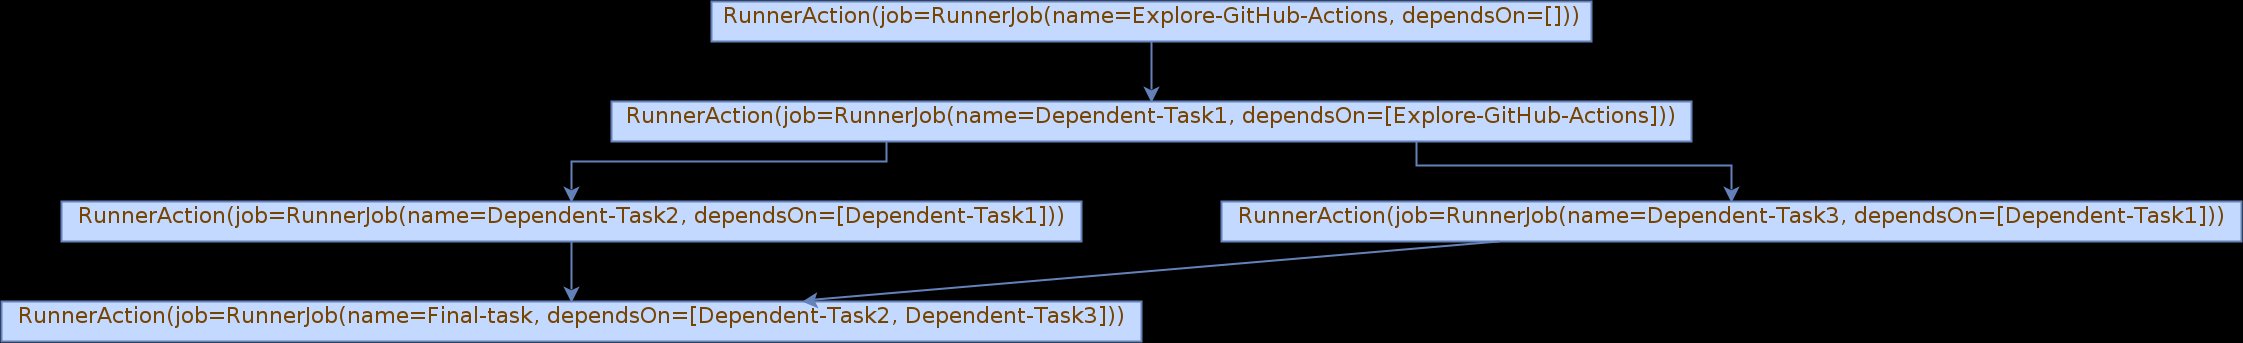
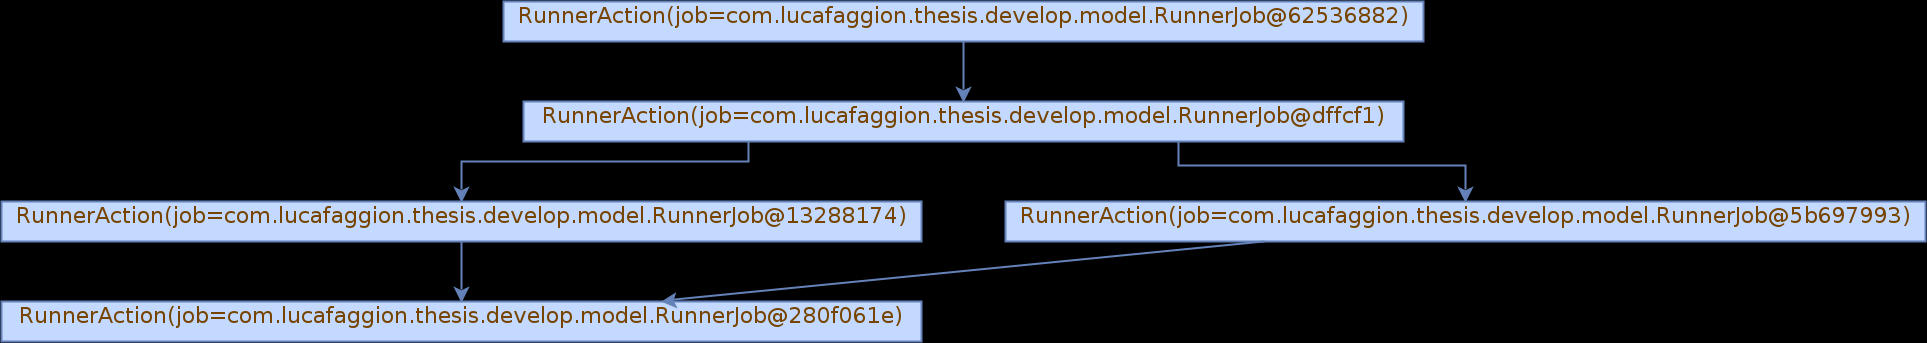
Adding integration test setup

diff --git a/develop/src/main/java/com/lucafaggion/thesis/develop/App.java b/develop/src/main/java/com/lucafaggion/thesis/develop/App.java
@@ -58,108 +58,108 @@ public class App {
     SpringApplication.run(App.class, args);
   }
 
-  //
-  // https://mkyong.com/spring-boot/how-to-display-all-beans-loaded-by-spring-boot/#:~:text=In%20Spring%20Boot%2C%20you%20can,loaded%20by%20the%20Spring%20container.
-  @Bean
-  public CommandLineRunner run(ApplicationContext appContext) throws IOException {
-    return args -> {
+  // //
+  // // https://mkyong.com/spring-boot/how-to-display-all-beans-loaded-by-spring-boot/#:~:text=In%20Spring%20Boot%2C%20you%20can,loaded%20by%20the%20Spring%20container.
+  // @Bean
+  // public CommandLineRunner run(ApplicationContext appContext) throws IOException {
+  //   return args -> {
 
-      FileWriter beanFile = new FileWriter("src/main/resources/beans.txt");
-      String[] beans = appContext.getBeanDefinitionNames();
-      for (String bean : beans) {
-        beanFile.write(bean + " of Type :: " + appContext.getBean(bean).getClass() +
-            "\n");
-      }
-      beanFile.close();
-    };
-  }
+  //     FileWriter beanFile = new FileWriter("src/main/resources/beans.txt");
+  //     String[] beans = appContext.getBeanDefinitionNames();
+  //     for (String bean : beans) {
+  //       beanFile.write(bean + " of Type :: " + appContext.getBean(bean).getClass() +
+  //           "\n");
+  //     }
+  //     beanFile.close();
+  //   };
+  // }
 
-  @Bean
-  public CommandLineRunner templateEngineTest(SpringTemplateEngine templateEngine) throws IOException {
-    return args -> {
-      HashMap<String, Object> user = new HashMap<String, Object>();
-      user.put("name", "lucafaggion");
+  // @Bean
+  // public CommandLineRunner templateEngineTest(SpringTemplateEngine templateEngine) throws IOException {
+  //   return args -> {
+  //     HashMap<String, Object> user = new HashMap<String, Object>();
+  //     user.put("name", "lucafaggion");
 
-      HashMap<String, Object> mapContext = new HashMap<String, Object>();
-      mapContext.put("name", "Testing Name");
-      mapContext.put("user", user);
+  //     HashMap<String, Object> mapContext = new HashMap<String, Object>();
+  //     mapContext.put("name", "Testing Name");
+  //     mapContext.put("user", user);
 
-      Context templateContext = new Context(new Locale("en"), mapContext);
+  //     Context templateContext = new Context(new Locale("en"), mapContext);
 
-      FileWriter templateWriter = new FileWriter("src/main/resources/configs/testconfig_compiled.yaml");
-      templateEngine.process("testconfig", templateContext, templateWriter);
+  //     FileWriter templateWriter = new FileWriter("src/main/resources/configs/testconfig_compiled.yaml");
+  //     templateEngine.process("testconfig", templateContext, templateWriter);
 
-      FileWriter templateWriterText = new FileWriter("src/main/resources/configs/testconfig_compiled_fromtext.yaml");
-      String template = """
-          name: GitHub Actions Demo
-          on: [push]
-          jobs:
-          Explore-GitHub-Actions:
-          steps:
-          - run: echo \"🎉 The job was automatically triggered by a ${{
-          github.event_name }} event.\"
-          - run: echo \"🐧 This job is now running on a ${{ runner.os }} server hosted
-          by GitHub!\"
-          - run: echo \"🔎 The name of your branch is ${{ github.ref }} and your
-          repository is ${{ github.repository }}.\"
-          - name: Check out repository code
-          uses: actions/checkout@v3
-          - run: echo \"💡 The [(${user.name})] repository has been cloned to the
-          runner.\"
-          - run: echo \"🖥 The workflow is now ready to test your code on the
-          runner.\"
-          - name: List files in the repository
-          run: |
-          ls ${{ github.workspace }}
-          - run: echo \"🍏 This job's status is ${{ job.status }}.\"
-          """;
-      templateEngine.process(template, templateContext, templateWriterText);
-    };
-  }
+  //     FileWriter templateWriterText = new FileWriter("src/main/resources/configs/testconfig_compiled_fromtext.yaml");
+  //     String template = """
+  //         name: GitHub Actions Demo
+  //         on: [push]
+  //         jobs:
+  //         Explore-GitHub-Actions:
+  //         steps:
+  //         - run: echo \"🎉 The job was automatically triggered by a ${{
+  //         github.event_name }} event.\"
+  //         - run: echo \"🐧 This job is now running on a ${{ runner.os }} server hosted
+  //         by GitHub!\"
+  //         - run: echo \"🔎 The name of your branch is ${{ github.ref }} and your
+  //         repository is ${{ github.repository }}.\"
+  //         - name: Check out repository code
+  //         uses: actions/checkout@v3
+  //         - run: echo \"💡 The [(${user.name})] repository has been cloned to the
+  //         runner.\"
+  //         - run: echo \"🖥 The workflow is now ready to test your code on the
+  //         runner.\"
+  //         - name: List files in the repository
+  //         run: |
+  //         ls ${{ github.workspace }}
+  //         - run: echo \"🍏 This job's status is ${{ job.status }}.\"
+  //         """;
+  //     templateEngine.process(template, templateContext, templateWriterText);
+  //   };
+  // }
 
-  @Bean
-  public CommandLineRunner templateEngineClasses(RunnerTaskConfigService runnerTaskConfigService,
-      RunnableGraphService runnableGraphService) throws IOException {
-    return args -> {
+  // @Bean
+  // public CommandLineRunner templateEngineClasses(RunnerTaskConfigService runnerTaskConfigService,
+  //     RunnableGraphService runnableGraphService) throws IOException {
+  //   return args -> {
 
-      HashMap<String, Object> user = new HashMap<String, Object>();
-      user.put("name", "lucafaggion");
+  //     HashMap<String, Object> user = new HashMap<String, Object>();
+  //     user.put("name", "lucafaggion");
 
-      HashMap<String, Object> mapContext = new HashMap<String, Object>();
-      mapContext.put("name", "Testing Name");
-      mapContext.put("user", user);
-      Context templateContext = new Context(new Locale("en"), mapContext);
+  //     HashMap<String, Object> mapContext = new HashMap<String, Object>();
+  //     mapContext.put("name", "Testing Name");
+  //     mapContext.put("user", user);
+  //     Context templateContext = new Context(new Locale("en"), mapContext);
 
-      File templateConfig = new File("src/main/resources/configs/testconfig.yaml");
-      FileWriter templateWriterPlain = new FileWriter("src/main/resources/configs/testconfig_compiled_plain.yaml");
-      String compiledTemplate = runnerTaskConfigService.compileTemplate(templateConfig, templateContext);
-      templateWriterPlain.write(compiledTemplate);
-      templateWriterPlain.close();
+  //     File templateConfig = new File("src/main/resources/configs/testconfig.yaml");
+  //     FileWriter templateWriterPlain = new FileWriter("src/main/resources/configs/testconfig_compiled_plain.yaml");
+  //     String compiledTemplate = runnerTaskConfigService.compileTemplate(templateConfig, templateContext);
+  //     templateWriterPlain.write(compiledTemplate);
+  //     templateWriterPlain.close();
 
-      // Create a graph
-      Graph<RunnerAction, RunnableGraphEdge> graph = runnableGraphService
-          .createAcyclicGraphFromConfig(compiledTemplate);
-      runnableGraphService.saveGraphToImage(graph,
-          "src/main/resources/runnerjob_graph.png");
-    };
-  };
+  //     // Create a graph
+  //     Graph<RunnerAction, RunnableGraphEdge> graph = runnableGraphService
+  //         .createAcyclicGraphFromConfig(compiledTemplate);
+  //     runnableGraphService.saveGraphToImage(graph,
+  //         "src/main/resources/runnerjob_graph.png");
+  //   };
+  // };
 
-  @Bean
-  public CommandLineRunner taskRun(ThreadPoolTaskExecutor threadPoolTaskExecutor) {
-    return args -> {
-      RunnableGraph graph = new RunnableGraph(threadPoolTaskExecutor.getThreadPoolExecutor());
-      graph.createGraph();
-      graph.performRunnableTraversal();
-      // System.out.println(getGreeting());
-    };
-  }
+  // @Bean
+  // public CommandLineRunner taskRun(ThreadPoolTaskExecutor threadPoolTaskExecutor) {
+  //   return args -> {
+  //     RunnableGraph graph = new RunnableGraph(threadPoolTaskExecutor.getThreadPoolExecutor());
+  //     graph.createGraph();
+  //     graph.performRunnableTraversal();
+  //     // System.out.println(getGreeting());
+  //   };
+  // }
 
-  @Bean
-  public CommandLineRunner testDocker(ApplicationContext appContext,
-      DockerContainerActionsService dockerActionservice)
-      throws IOException {
-    return args -> {
-      dockerActionservice.runActionInContainer(null);
-    };
-  }
+  // @Bean
+  // public CommandLineRunner testDocker(ApplicationContext appContext,
+  //     DockerContainerActionsService dockerActionservice)
+  //     throws IOException {
+  //   return args -> {
+  //     dockerActionservice.runActionInContainer(null);
+  //   };
+  // }
 }

diff --git a/develop/src/test/java/com/lucafaggion/thesis/develop/model/RunnerJobIntergrationTest.java b/develop/src/test/java/com/lucafaggion/thesis/develop/model/RunnerJobIntergrationTest.java
@@ -1,0 +1,51 @@
+package com.lucafaggion.thesis.develop.model;
+
+import static org.junit.jupiter.api.Assertions.assertTrue;
+
+import java.math.BigInteger;
+import java.util.Arrays;
+import java.util.HashSet;
+import java.util.List;
+import java.util.Set;
+
+import org.junit.jupiter.api.Test;
+import org.springframework.beans.factory.annotation.Autowired;
+import org.springframework.boot.test.autoconfigure.jdbc.AutoConfigureTestDatabase;
+import org.springframework.boot.test.autoconfigure.orm.jpa.DataJpaTest;
+import org.springframework.boot.test.context.SpringBootTest;
+import org.springframework.test.annotation.Commit;
+import org.springframework.test.context.TestPropertySource;
+
+import com.lucafaggion.thesis.develop.repository.RunnerJobRepository;
+
+@DataJpaTest
+@AutoConfigureTestDatabase(replace = AutoConfigureTestDatabase.Replace.NONE)
+@TestPropertySource(properties = {
+  "spring.datasource.url= jdbc:postgresql://postdb:5432/testrundb"
+})
+public class RunnerJobIntergrationTest {
+  
+  @Autowired
+  RunnerJobRepository runnerJobRepository;
+
+  @Test
+  @Commit
+  void runnerJobSaveAndIsFoundInSet() {
+    // Stiamo testando se la funzione hashCode non muta dopo il salvataggio
+
+    Set<RunnerJob> set = new HashSet<>();
+
+    RunnerJob testRunnerJobSave = RunnerJob.builder()
+        .dependsOn(Arrays.asList("depends1", "depends2"))
+        .name("just a job")
+        .steps(null)
+        .id(BigInteger.ONE)
+        .build();
+
+    set.add(testRunnerJobSave);
+    runnerJobRepository.save(testRunnerJobSave);
+
+    assertTrue(set.contains(testRunnerJobSave), "Entity not found in the set");
+  }
+  
+}

diff --git a/develop/src/main/java/com/lucafaggion/thesis/develop/model/RunnerAction.java b/develop/src/main/java/com/lucafaggion/thesis/develop/model/RunnerAction.java
@@ -7,29 +7,28 @@ import org.springframework.stereotype.Component;
 
 import com.google.common.util.concurrent.ListenableFutureTask;
 import com.lucafaggion.thesis.develop.service.ContainerActionsService;
-import com.lucafaggion.thesis.develop.service.ContainerService;
-
 import lombok.AccessLevel;
+import lombok.Builder;
 import lombok.Getter;
 import lombok.NonNull;
-import lombok.RequiredArgsConstructor;
 import lombok.Setter;
 import lombok.ToString;
 
 @Getter
-@RequiredArgsConstructor
 @ToString
+@Builder
 @Component
 public class RunnerAction implements Callable<String> {
 
   @Autowired
   ContainerActionsService containerActionsService;
   
-  @NonNull
   @Setter(AccessLevel.NONE)
+  @NonNull
   private RunnerJob job;
 
   @Setter(AccessLevel.NONE)
+  @NonNull
   @ToString.Exclude
   private ListenableFutureTask<String> listenableFuture;
 

diff --git a/develop/src/main/java/com/lucafaggion/thesis/develop/service/RunnableGraphService.java b/develop/src/main/java/com/lucafaggion/thesis/develop/service/RunnableGraphService.java
@@ -54,7 +54,7 @@ public class RunnableGraphService {
     // Create the array of callable jobs
     List<RunnerAction> actions = runnerTaskConfig.getJobs().values()
         .stream()
-        .map((job) -> new RunnerAction(job))
+        .map((job) -> RunnerAction.builder().job(job).build())
         .collect(Collectors.toList());
 
     

diff --git a/develop/src/main/java/com/lucafaggion/thesis/develop/repository/RunnerJobRepository.java b/develop/src/main/java/com/lucafaggion/thesis/develop/repository/RunnerJobRepository.java
@@ -1,0 +1,9 @@
+package com.lucafaggion.thesis.develop.repository;
+
+import org.springframework.data.jpa.repository.JpaRepository;
+
+import com.lucafaggion.thesis.develop.model.RunnerJob;
+
+public interface RunnerJobRepository extends JpaRepository<RunnerJob, Long>{
+  
+}

diff --git a/develop/src/test/java/com/lucafaggion/thesis/develop/model/RepoIntegrationTest.java b/develop/src/test/java/com/lucafaggion/thesis/develop/model/RepoIntegrationTest.java
@@ -1,4 +1,4 @@
-package com.lucafaggion.thesis.develop;
+package com.lucafaggion.thesis.develop.model;
 
 import java.util.HashSet;
 import java.util.Set;

diff --git a/develop/src/test/java/com/lucafaggion/thesis/develop/AppTest.java b/develop/src/test/java/com/lucafaggion/thesis/develop/AppTest.java
@@ -3,5 +3,4 @@
  */
 package com.lucafaggion.thesis.develop;
 
-class AppTest {
-}
+public class AppTest {}
